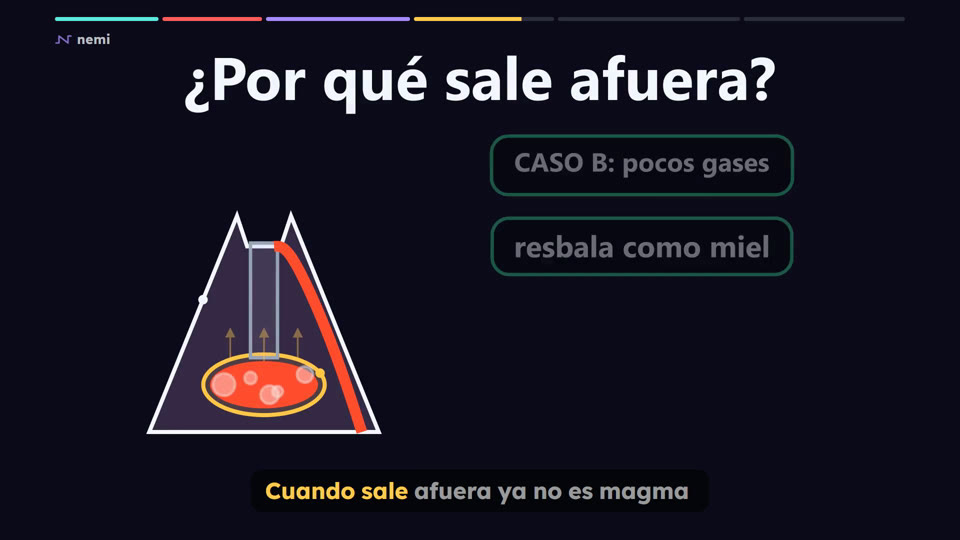
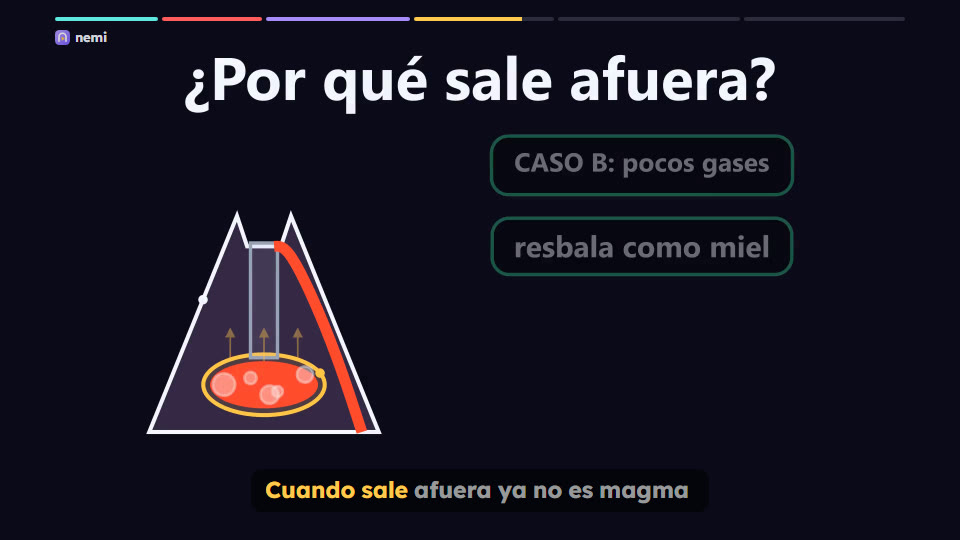
New Nemi mark and a landing page that explains the product
The mark is an n holding a play button, used in the site header, as the
favicon and as the watermark inside every video. The home page now opens
with the example lesson playing, then walks through how it works, the
create form, Nemi Studio, Nemi Classroom and exporting to your own
platform, Nemi for events, and planned pricing by credits or plan.

diff --git a/apps/web/src/app/page.tsx b/apps/web/src/app/page.tsx
@@ -1,38 +1,118 @@
-import { BookOpen, Brain, Mic, ScanSearch, WandSparkles } from "lucide-react";
+import {
+  BookOpen, Brain, Check, Download, GraduationCap, Mic, Play, ScanSearch, Share2, Sparkles, Ticket, WandSparkles,
+} from "lucide-react";
+import Link from "next/link";
 import { CreateForm } from "@/components/CreateForm";
 import { Gallery } from "@/components/Gallery";
+import { HeroPlayer } from "@/components/HeroPlayer";
 import { Logo } from "@/components/Logo";
 
-const STEPS = [
-  { icon: BookOpen, model: "Muse Spark", text: "reads your chapter and plans the lesson in five acts, then checks it against 7 questions" },
+const MODELS = [
+  { icon: BookOpen, model: "Muse Spark", text: "reads your chapter, plans the lesson in five acts and checks it against 7 questions before anything is made" },
   { icon: WandSparkles, model: "Muse Image", text: "draws every illustration in one style, with no garbled text" },
   { icon: ScanSearch, model: "SAM 3.1", text: "cuts out each part of a diagram so it lights up when the narrator names it" },
-  { icon: Brain, model: "Muse Spark + Manim", text: "writes precise animations, audits them and fixes its own mistakes" },
+  { icon: Brain, model: "Muse Spark and Manim", text: "write precise animations, audit them and fix their own mistakes" },
   { icon: Mic, model: "Muse Voice Transcribe", text: "lets you re-record any line in your own voice, with captions" },
 ];
 
+const STEPS = [
+  { n: "1", title: "Bring your material", text: "A textbook chapter as a PDF, or just a topic. Pick the grade, the language and a voice from your region." },
+  { n: "2", title: "Nemi makes the lesson", text: "It plans, reviews, illustrates, animates and narrates a short lesson with quiz pauses. You watch it happen." },
+  { n: "3", title: "You approve and share", text: "Edit any scene in the live preview, then send the student link or download the video for your own platform." },
+];
+
+const PRODUCTS = [
+  {
+    icon: Sparkles, name: "Nemi Studio", badge: "Available", tone: "green",
+    text: "Topic or PDF in, lesson out. Edit any scene, switch the look, record a line in your own voice and export.",
+  },
+  {
+    icon: GraduationCap, name: "Nemi Classroom", badge: "Beta", tone: "violet",
+    text: "One link per lesson. Students watch on any phone, the video stops at each quiz and waits for their answer. Class results for the teacher come next.",
+  },
+  {
+    icon: Download, name: "Your own platform", badge: "MP4 available", tone: "green",
+    text: "Download the video for the projector, WhatsApp or YouTube. Packages for Google Classroom, Moodle and other LMS are on the way.",
+  },
+];
+
+const PLANS = [
+  { name: "Free", price: "$0", per: "", items: ["3 lessons a month", "Student links with quiz pauses", "MP4 with a small Nemi mark"] },
+  { name: "Teacher", price: "$9", per: "a month", featured: true, items: ["20 lessons a month", "PDF chapters up to 50 pages", "Your own voice", "MP4 without watermark"] },
+  { name: "School", price: "$4", per: "per teacher a month", items: ["Shared credits for the whole school", "Nemi Classroom with quiz results", "LMS export", "Priority rendering"] },
+  { name: "Events", price: "$29", per: "per event", items: ["Launch kit with your logos and colors", "Luma cover and 9-post grid", "Stories and promo video"] },
+];
+
+const EVENT_KIT = ["An event cover sized for Luma", "A 9-post Instagram grid that forms one big picture", "Stories and reels in your colors", "A promo video before and a recap video after"];
+
 export default function Home() {
   return (
-    <main className="mx-auto w-full max-w-6xl px-4 pb-20 pt-8 sm:px-6">
-      <header className="mb-12 flex items-center justify-between">
-        <Logo />
-        <a href="https://github.com/nema1502/nemi" className="text-sm text-muted transition hover:text-ink">GitHub</a>
-      </header>
+    <main className="w-full">
+      <nav className="sticky top-0 z-30 border-b border-line/60 bg-bg/80 backdrop-blur">
+        <div className="mx-auto flex max-w-6xl items-center gap-6 px-4 py-3 sm:px-6">
+          <Logo />
+          <div className="ml-4 hidden gap-5 text-sm text-muted md:flex">
+            <a href="#how" className="hover:text-ink">How it works</a>
+            <a href="#classroom" className="hover:text-ink">Classroom</a>
+            <a href="#events" className="hover:text-ink">Events</a>
+            <a href="#pricing" className="hover:text-ink">Pricing</a>
+          </div>
+          <div className="ml-auto flex items-center gap-3">
+            <a href="https://github.com/nema1502/nemi" className="hidden text-sm text-muted hover:text-ink sm:block">GitHub</a>
+            <a href="#create" className="btn-primary px-3.5 py-2">Create a lesson</a>
+          </div>
+        </div>
+      </nav>
 
-      <div className="grid items-start gap-10 lg:grid-cols-[1fr_1.05fr]">
-        <div className="lg:pt-6">
-          <p className="mb-4 inline-flex rounded-full border border-violet/30 bg-violet/10 px-3 py-1 text-xs font-semibold text-violet">
-            For teachers, built with Meta&apos;s Muse models
+      {/* Hero */}
+      <section className="mx-auto grid max-w-6xl items-center gap-12 px-4 pb-16 pt-14 sm:px-6 lg:grid-cols-[1fr_1.15fr] lg:pt-20">
+        <div>
+          <p className="mb-5 inline-flex rounded-full border border-violet/30 bg-violet/10 px-3 py-1 text-xs font-semibold text-violet">
+            For teachers and their students
           </p>
-          <h1 className="text-4xl font-extrabold leading-[1.05] tracking-tight sm:text-6xl">
+          <h1 className="text-4xl font-extrabold leading-[1.04] tracking-tight sm:text-6xl">
             Your chapter, as a lesson video your students <span className="text-violet">finish</span>.
           </h1>
           <p className="mt-5 max-w-lg text-lg text-muted">
-            Upload a textbook PDF or type a topic. Nemi plans, illustrates, animates and narrates a short lesson
-            with quiz pauses, and you edit every scene before your class sees it.
+            Upload a textbook PDF or type a topic. Nemi plans, illustrates, animates and narrates it, and you edit every scene before your class sees it.
           </p>
-          <ul className="mt-8 space-y-3.5">
-            {STEPS.map(({ icon: Icon, model, text }) => (
+          <div className="mt-8 flex flex-wrap gap-3">
+            <a href="#create" className="btn-primary px-5 py-3 text-base"><Sparkles className="size-5" />Create a lesson</a>
+            <Link href="/watch/demo" className="btn-ghost px-5 py-3 text-base"><Play className="size-5" />Watch an example</Link>
+          </div>
+          <p className="mt-6 text-sm text-muted">Spanish, English and Portuguese. Classroom 16:9 or phone 9:16. Latin American voices, or yours.</p>
+        </div>
+        <div className="relative mx-auto w-full max-w-[640px] pb-10 pt-6 lg:pb-16">
+          {/* eslint-disable-next-line @next/next/no-img-element */}
+          <img src="/demo/s1-1ca3-68038d91.jpg" alt="" className="absolute right-0 top-0 w-[72%] rotate-[5deg] rounded-2xl border border-white/10 opacity-80 shadow-2xl shadow-black/50" />
+          <div className="relative mt-16 -rotate-[2.5deg] overflow-hidden rounded-2xl border border-white/15 shadow-[0_30px_90px_rgba(0,0,0,.6),0_0_80px_rgba(167,139,250,.25)]">
+            <HeroPlayer />
+          </div>
+        </div>
+      </section>
+
+      {/* How it works */}
+      <section id="how" className="mx-auto max-w-6xl scroll-mt-20 px-4 py-16 sm:px-6">
+        <h2 className="text-3xl font-extrabold tracking-tight sm:text-4xl">From textbook to video in minutes</h2>
+        <p className="mt-3 max-w-2xl text-muted">A good animated lesson used to take a creator days. Nemi does the heavy part and leaves the decisions to the teacher.</p>
+        <div className="mt-10 grid gap-4 md:grid-cols-3">
+          {STEPS.map((s) => (
+            <div key={s.n} className="rounded-2xl border border-line bg-panel/70 p-6">
+              <span className="grid size-10 place-items-center rounded-xl bg-violet/15 text-lg font-extrabold text-violet">{s.n}</span>
+              <h3 className="mt-4 text-lg font-bold">{s.title}</h3>
+              <p className="mt-2 text-sm leading-relaxed text-muted">{s.text}</p>
+            </div>
+          ))}
+        </div>
+      </section>
+
+      {/* Create */}
+      <section id="create" className="mx-auto grid max-w-6xl scroll-mt-20 items-start gap-10 px-4 py-16 sm:px-6 lg:grid-cols-[1fr_1.05fr]">
+        <div className="lg:pt-4">
+          <h2 className="text-3xl font-extrabold tracking-tight sm:text-4xl">Make one now</h2>
+          <p className="mt-3 max-w-md text-muted">Each step is one of Meta&apos;s models doing what it does best, and most steps are checked by another one.</p>
+          <ul className="mt-8 space-y-4">
+            {MODELS.map(({ icon: Icon, model, text }) => (
               <li key={model} className="flex gap-3">
                 <span className="mt-0.5 grid size-8 flex-none place-items-center rounded-lg bg-panel-2 text-teal"><Icon className="size-4" /></span>
                 <p className="text-sm leading-relaxed text-muted"><span className="font-semibold text-ink">{model}</span> {text}</p>
@@ -41,9 +121,95 @@ export default function Home() {
           </ul>
         </div>
         <CreateForm />
-      </div>
+      </section>
 
-      <Gallery />
+      {/* Products */}
+      <section id="classroom" className="mx-auto max-w-6xl scroll-mt-20 px-4 py-16 sm:px-6">
+        <h2 className="text-3xl font-extrabold tracking-tight sm:text-4xl">One lesson, every way your class learns</h2>
+        <p className="mt-3 max-w-2xl text-muted">Teach with it in class, send it home with a link, or put it on the platform your school already uses.</p>
+        <div className="mt-10 grid gap-4 md:grid-cols-3">
+          {PRODUCTS.map(({ icon: Icon, name, badge, tone, text }) => (
+            <div key={name} className="flex flex-col rounded-2xl border border-line bg-panel/70 p-6">
+              <div className="flex items-center justify-between">
+                <span className="grid size-10 place-items-center rounded-xl bg-panel-2 text-teal"><Icon className="size-5" /></span>
+                <span className={`rounded-full px-2.5 py-0.5 text-xs font-semibold ${tone === "green" ? "bg-green/15 text-green" : "bg-violet/15 text-violet"}`}>{badge}</span>
+              </div>
+              <h3 className="mt-4 text-lg font-bold">{name}</h3>
+              <p className="mt-2 text-sm leading-relaxed text-muted">{text}</p>
+            </div>
+          ))}
+        </div>
+        <div className="mt-6 flex flex-wrap items-center gap-4 rounded-2xl border border-violet/30 bg-violet/10 p-5">
+          <Share2 className="size-5 text-violet" />
+          <p className="flex-1 text-sm">See what a student gets: the example lesson stops at its quiz and waits for an answer.</p>
+          <Link href="/watch/demo" className="btn-primary">Open the student link</Link>
+        </div>
+      </section>
+
+      {/* Events */}
+      <section id="events" className="mx-auto grid max-w-6xl scroll-mt-20 items-center gap-12 px-4 py-16 sm:px-6 lg:grid-cols-2">
+        <div>
+          <span className="rounded-full bg-amber/15 px-2.5 py-0.5 text-xs font-semibold text-amber">Coming soon</span>
+          <h2 className="mt-4 text-3xl font-extrabold tracking-tight sm:text-4xl">Nemi for events</h2>
+          <p className="mt-3 max-w-md text-muted">
+            Running a hackathon, a meetup or a school science fair? Bring your logos, your colors and the idea. Nemi drafts the whole launch kit in the same style.
+          </p>
+          <ul className="mt-6 space-y-3">
+            {EVENT_KIT.map((k) => (
+              <li key={k} className="flex items-center gap-3 text-sm"><Check className="size-4 flex-none text-amber" />{k}</li>
+            ))}
+          </ul>
+        </div>
+        <div className="relative mx-auto w-full max-w-md">
+          <div className="grid grid-cols-3 gap-1.5 overflow-hidden rounded-2xl border border-line bg-panel p-1.5 shadow-2xl shadow-black/40">
+            {Array.from({ length: 9 }, (_, i) => (
+              <div
+                key={i}
+                className="aspect-square rounded-md"
+                style={{ backgroundImage: "url(/landing/event.jpg)", backgroundSize: "300% 300%", backgroundPosition: `${(i % 3) * 50}% ${Math.floor(i / 3) * 50}%` }}
+              />
+            ))}
+          </div>
+          <div className="absolute -bottom-6 -left-6 hidden w-40 rotate-[-6deg] overflow-hidden rounded-xl border border-white/15 bg-panel shadow-2xl sm:block">
+            <div className="aspect-square bg-cover bg-center" style={{ backgroundImage: "url(/landing/event.jpg)" }} />
+            <div className="flex items-center gap-1.5 p-2 text-[11px] font-semibold"><Ticket className="size-3.5 text-amber" />Your event cover</div>
+          </div>
+        </div>
+      </section>
+
+      {/* Pricing */}
+      <section id="pricing" className="mx-auto max-w-6xl scroll-mt-20 px-4 py-16 sm:px-6">
+        <h2 className="text-3xl font-extrabold tracking-tight sm:text-4xl">Credits or a plan</h2>
+        <p className="mt-3 max-w-2xl text-muted">One credit is one lesson of up to 3 minutes. Nemi is free while in pilot; these are the planned prices.</p>
+        <div className="mt-10 grid gap-4 sm:grid-cols-2 lg:grid-cols-4">
+          {PLANS.map((p) => (
+            <div key={p.name} className={`flex flex-col rounded-2xl border p-6 ${p.featured ? "border-violet bg-violet/10" : "border-line bg-panel/70"}`}>
+              <h3 className="font-bold">{p.name}</h3>
+              <p className="mt-3"><span className="text-4xl font-extrabold">{p.price}</span> <span className="text-sm text-muted">{p.per}</span></p>
+              <ul className="mt-5 space-y-2.5 text-sm">
+                {p.items.map((i) => (
+                  <li key={i} className="flex gap-2"><Check className="mt-0.5 size-4 flex-none text-green" /><span className="text-muted">{i}</span></li>
+                ))}
+              </ul>
+            </div>
+          ))}
+        </div>
+        <p className="mt-4 text-sm text-muted">Need more lessons in a month? 10 extra credits for $5, no plan change needed.</p>
+      </section>
+
+      <section className="mx-auto max-w-6xl px-4 sm:px-6">
+        <Gallery />
+      </section>
+
+      <footer className="mt-20 border-t border-line/60">
+        <div className="mx-auto flex max-w-6xl flex-wrap items-center gap-4 px-4 py-8 text-sm text-muted sm:px-6">
+          <Logo small />
+          <p className="flex-1">Made in Santa Cruz de la Sierra, Bolivia, by Nicolás Mejía Agreda. Built with Meta&apos;s Muse models for the Meta Global AI Developer Hackathon 2026.</p>
+          <a href="https://github.com/nema1502/nemi" className="hover:text-ink">GitHub</a>
+          <a href="https://x.com/Emiru1502" className="hover:text-ink">X</a>
+          <a href="https://www.linkedin.com/in/nicolas-mejia-agreda/" className="hover:text-ink">LinkedIn</a>
+        </div>
+      </footer>
     </main>
   );
 }

diff --git a/apps/web/src/components/HeroPlayer.tsx b/apps/web/src/components/HeroPlayer.tsx
@@ -1,0 +1,43 @@
+"use client";
+
+import { dimensions, FPS, LessonVideo, timeline, type Lesson } from "@nemi/video";
+import { Player } from "@remotion/player";
+import { useEffect, useMemo, useState } from "react";
+import { ENGINE } from "@/lib/engine";
+
+/** The example lesson's diagram scene, playing on a loop: the product, not a picture of it. */
+export function HeroPlayer() {
+  const [lesson, setLesson] = useState<Lesson | null>(null);
+  useEffect(() => {
+    fetch("/demo/lesson.json").then((r) => r.json()).then(setLesson).catch(() => {});
+  }, []);
+
+  const range = useMemo(() => {
+    if (!lesson) return null;
+    const { items, total } = timeline(lesson);
+    const d = items.find((i) => i.scene.kind === "diagram");
+    return { total, inFrame: d ? d.from : 0, outFrame: d ? d.from + d.timing.frames - 1 : total - 1 };
+  }, [lesson]);
+
+  if (!lesson || !range) return <div className="aspect-video w-full animate-pulse rounded-2xl bg-panel-2" />;
+  const { width, height } = dimensions(lesson);
+  return (
+    <Player
+      component={LessonVideo}
+      inputProps={{ lesson, assetBase: ENGINE, captions: true }}
+      durationInFrames={range.total}
+      fps={FPS}
+      compositionWidth={width}
+      compositionHeight={height}
+      inFrame={range.inFrame}
+      outFrame={range.outFrame}
+      initialFrame={Math.min(range.inFrame + 45, range.outFrame)}
+      autoPlay
+      loop
+      initiallyMuted
+      clickToPlay={false}
+      style={{ width: "100%", aspectRatio: `${width} / ${height}` }}
+      acknowledgeRemotionLicense
+    />
+  );
+}

diff --git a/packages/video/src/Lesson.tsx b/packages/video/src/Lesson.tsx
@@ -1,5 +1,6 @@
 import React, { useCallback, useMemo } from "react";
 import { AbsoluteFill, Audio, interpolate, Sequence, useCurrentFrame, useVideoConfig } from "remotion";
+import { NemiMark } from "./Mark";
 import { Diagram } from "./scenes/Diagram";
 import { Formula } from "./scenes/Formula";
 import { Manim } from "./scenes/Manim";
@@ -86,11 +87,9 @@ const Chrome: React.FC<{ items: TimelineItem[] }> = ({ items }) => {
           );
         })}
       </div>
-      <div style={{ position: "absolute", top: portrait ? 92 : 62, left: portrait ? 60 : 110, display: "flex", alignItems: "center", gap: 10, opacity: 0.75 }}>
-        <svg width="34" height="22" viewBox="0 0 34 22">
-          <path d="M2 18 H8 V4 L26 18 V4 H32" fill="none" stroke={theme.accent} strokeWidth="3.2" strokeLinecap="round" strokeLinejoin="round" />
-        </svg>
-        <span style={{ fontSize: 26, fontWeight: 700, letterSpacing: 0.5, color: theme.ink }}>nemi</span>
+      <div style={{ position: "absolute", top: portrait ? 88 : 58, left: portrait ? 60 : 110, display: "flex", alignItems: "center", gap: 10, opacity: 0.85 }}>
+        <NemiMark size={30} />
+        <span style={{ fontSize: 26, fontWeight: 700, letterSpacing: -0.3, color: theme.ink }}>nemi</span>
       </div>
     </AbsoluteFill>
   );

diff --git a/packages/video/src/Mark.tsx b/packages/video/src/Mark.tsx
@@ -1,0 +1,19 @@
+import React, { useId } from "react";
+
+/** Nemi's mark: an "n" holding a play button. Used by the web app and inside every video. */
+export const NemiMark: React.FC<{ size?: number; style?: React.CSSProperties }> = ({ size = 32, style }) => {
+  const id = useId().replace(/:/g, "");
+  return (
+    <svg width={size} height={size} viewBox="0 0 32 32" style={style} aria-hidden>
+      <defs>
+        <linearGradient id={`nemi-${id}`} x1="0" y1="0" x2="1" y2="1">
+          <stop offset="0" stopColor="#B9A2FF" />
+          <stop offset="1" stopColor="#7C5CFF" />
+        </linearGradient>
+      </defs>
+      <rect width="32" height="32" rx="9" fill={`url(#nemi-${id})`} />
+      <path d="M8.5 24V14.5a7.5 7.5 0 0 1 15 0V24" fill="none" stroke="#fff" strokeWidth="3.4" strokeLinecap="round" />
+      <path d="M14 15.2v6.6a.8.8 0 0 0 1.2.7l5-3.3a.8.8 0 0 0 0-1.4l-5-3.3a.8.8 0 0 0-1.2.7z" fill="#FFC94D" />
+    </svg>
+  );
+};

diff --git a/apps/web/src/components/Logo.tsx b/apps/web/src/components/Logo.tsx
@@ -1,11 +1,12 @@
+"use client";
+
+import { NemiMark } from "@nemi/video/mark";
 import Link from "next/link";
 
 export function Logo({ small = false }: { small?: boolean }) {
   return (
-    <Link href="/" className="flex items-center gap-2">
-      <svg width={small ? 26 : 34} height={small ? 17 : 22} viewBox="0 0 34 22" aria-hidden>
-        <path d="M2 18 H8 V4 L26 18 V4 H32" fill="none" stroke="var(--violet)" strokeWidth="3.2" strokeLinecap="round" strokeLinejoin="round" />
-      </svg>
+    <Link href="/" className="flex items-center gap-2.5">
+      <NemiMark size={small ? 26 : 32} />
       <span className={`${small ? "text-lg" : "text-2xl"} font-bold tracking-tight`}>nemi</span>
     </Link>
   );

diff --git a/apps/web/src/components/Gallery.tsx b/apps/web/src/components/Gallery.tsx
@@ -37,7 +37,7 @@ export function Gallery() {
               </div>
               <div className="p-3.5">
                 <p className="line-clamp-1 font-semibold">{l.title || "Untitled"}</p>
-                <p className="text-xs text-muted">{l.scenes} scenes, {new Date(l.created_at * 1000).toLocaleDateString()}</p>
+                <p className="text-xs text-muted">{l.scenes} scenes</p>
               </div>
             </Link>
           </motion.div>

diff --git a/packages/video/src/lib.ts b/packages/video/src/lib.ts
@@ -1,4 +1,5 @@
 // What the web app imports: the composition, the timeline math and the types.
 export { actColor, LessonVideo } from "./Lesson";
+export { NemiMark } from "./Mark";
 export * from "./timing";
 export type * from "./types";
